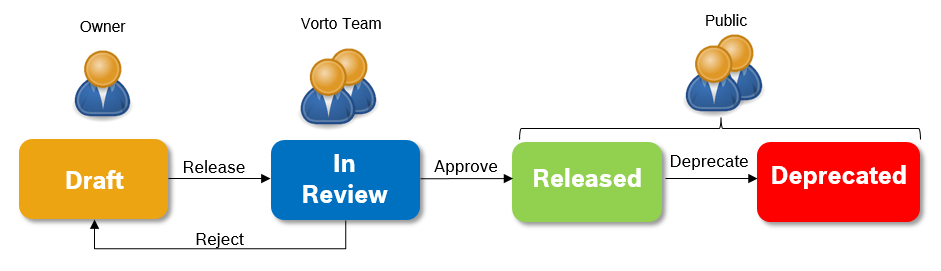
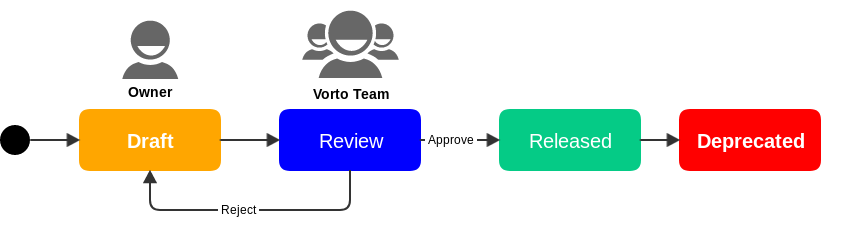
website updated on Tue Dec  4 22:18:25 EST 2018

diff --git a/userguide/model_states/index.html b/userguide/model_states/index.html
@@ -374,9 +374,22 @@
 
 <p>The following table gives an overview of what actions are possible for models in a specific state:</p>
 
-<figure class="screenshot">
-    <img src="https://www.eclipse.org/vorto/images/documentation/model_states_permissions.png">
-</figure>
+<h3 id="draft">Draft</h3>
+
+<p>A model in Draft state is a model under construction, here people can try out their ideas and test their behaviour.</p>
+
+<h3 id="review">Review</h3>
+
+<p>As soon as a developer is happy with the state a model is in, he can request a Review. Then a model supervisor will go through and confirm that all model guidlines are followed. The supervisor can either reject it, or allow it to go on to the Released state.
+To request a review all dependent models have to be released.</p>
+
+<h3 id="released">Released</h3>
+
+<p>A released model, is a model one can build upon. The release state ensures there are not changes introduced which could break comability, if there is a requirement for change a new version of the model should be created and the old one deprecated.</p>
+
+<h3 id="deprecated">Deprecated</h3>
+
+<p>If a model is not up to date anymore and it already has been released, it can be deprecated to mark the broken state. A deprecated model signals to other users that this model should not be used anymore and if possible replaced by a newer version.</p>
 
 			<aside class="copyright" role="note">
   <div class="logo">
